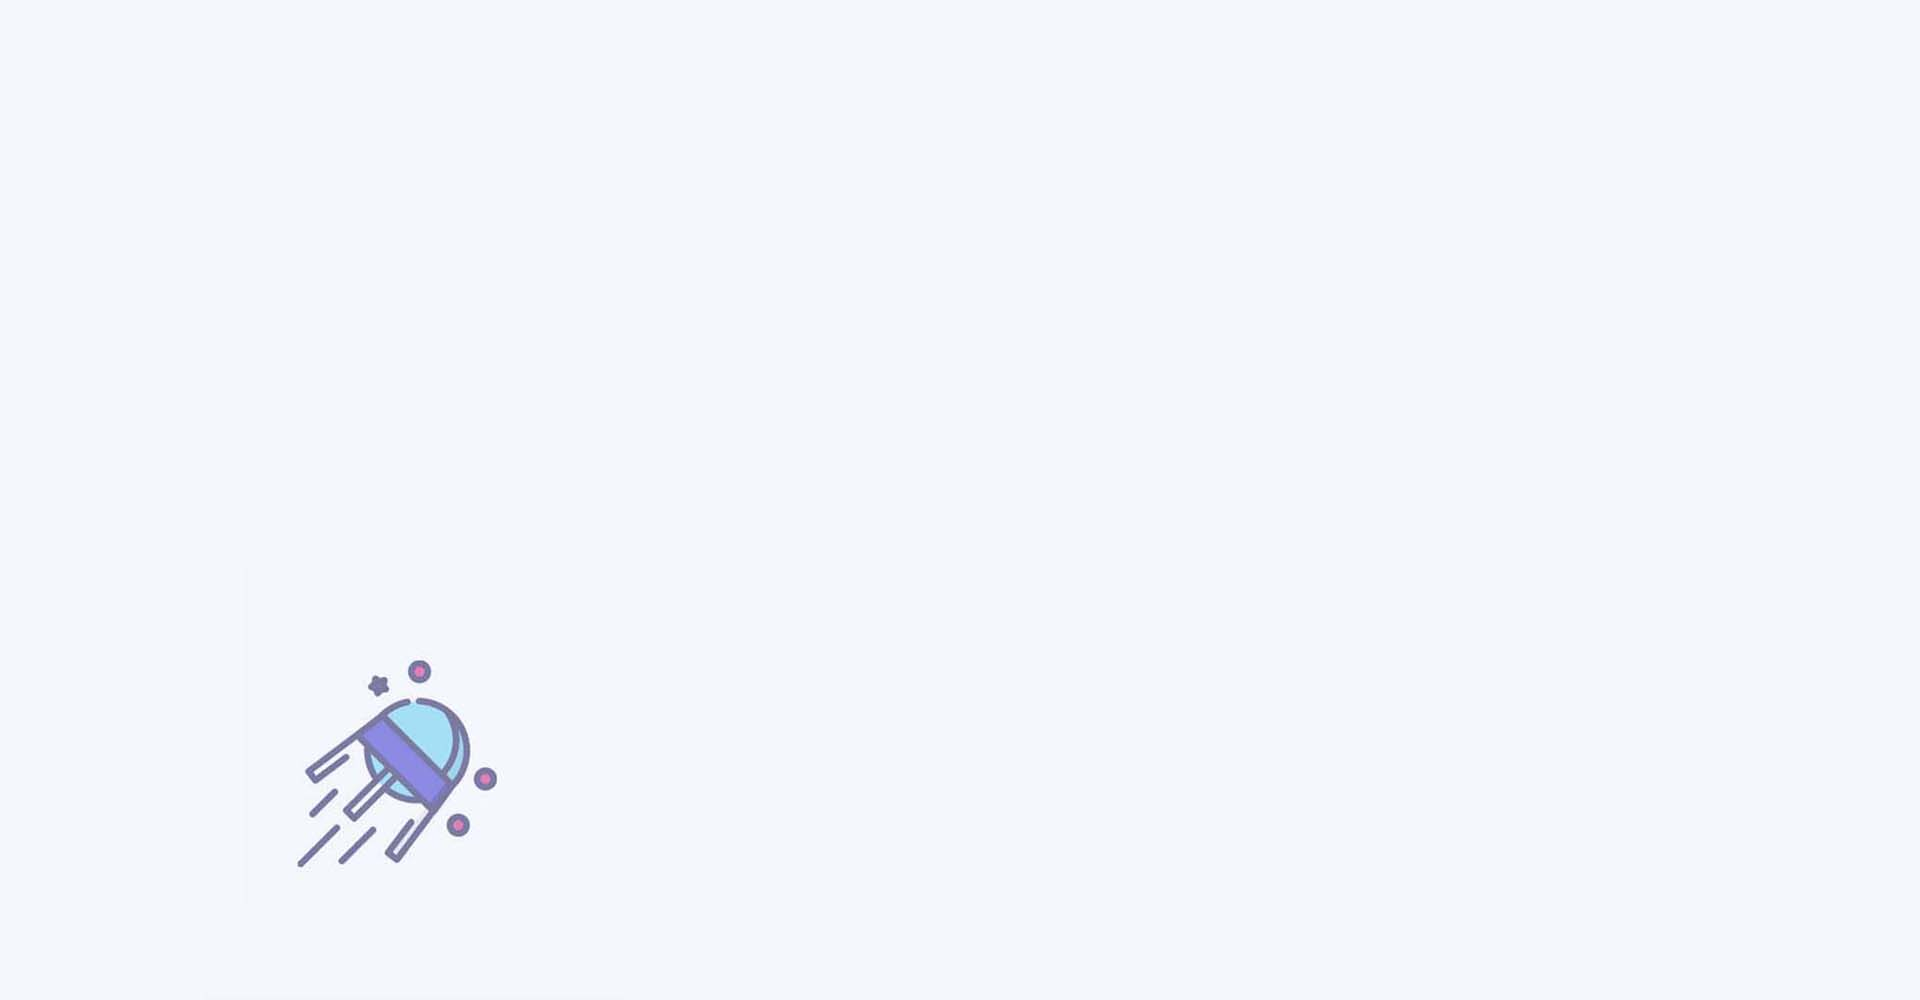
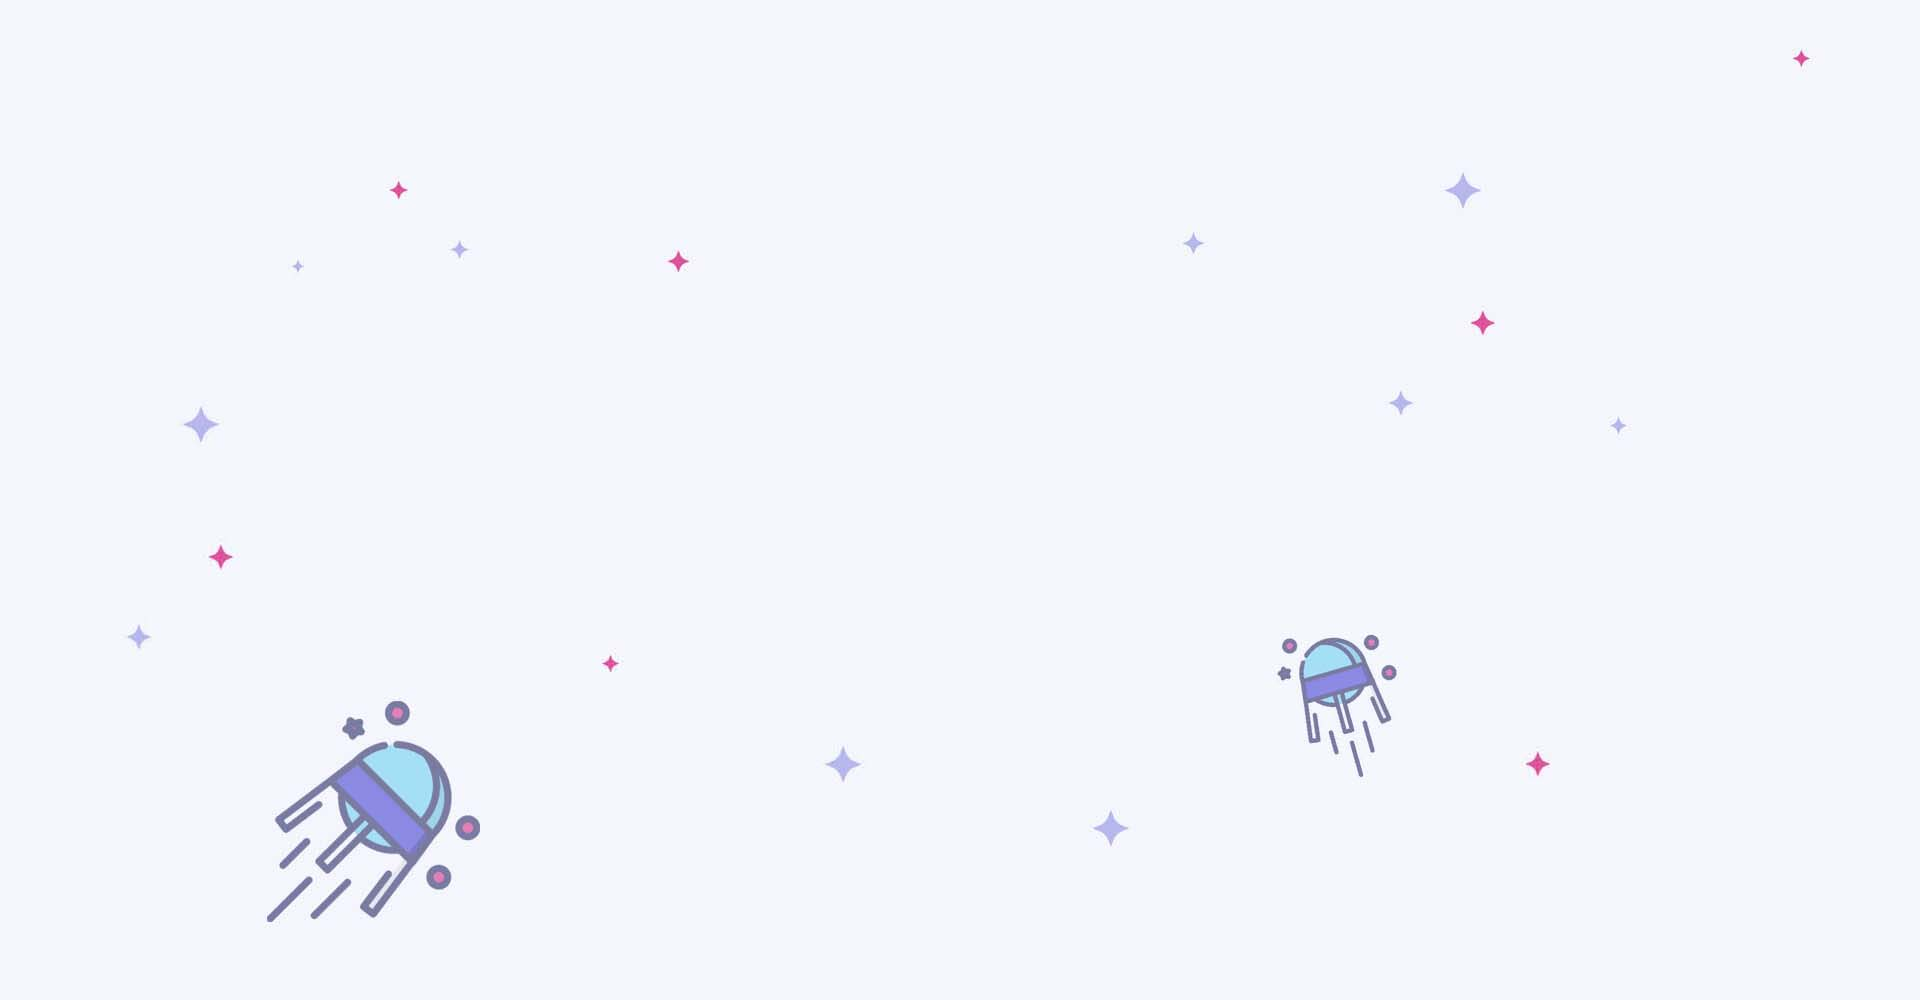
updated bg image, removed animation

diff --git a/assets/css/style.css b/assets/css/style.css
@@ -597,8 +597,8 @@ a:focus {
 .hero-bg-2 {
   background-color: #F4F7FC;
   background-image: url(../img/slide/2.jpg);
-  animation: backgroundScroll 16s linear infinite;
-  transform-origin: center center;
+  /* animation: backgroundScroll 16s linear infinite;
+  transform-origin: center center; */
 }
 
 .hero-bg-3 {
@@ -1883,9 +1883,12 @@ a:focus {
 .our-sponsers-area-tow .single-sponsers {
   margin-bottom: 80px;
 }
-.our-sponsers-area-tow .single-sponsers img{
-  max-height: 70px; 
-}
+  .our-sponsers-area-tow .single-sponsers img {
+      max-height: 184px;
+      width: 100%;
+      height: auto;
+  }
+
 
 .our-sponsers-area-tow .sponsers-active .owl-nav div {
   position: absolute;
